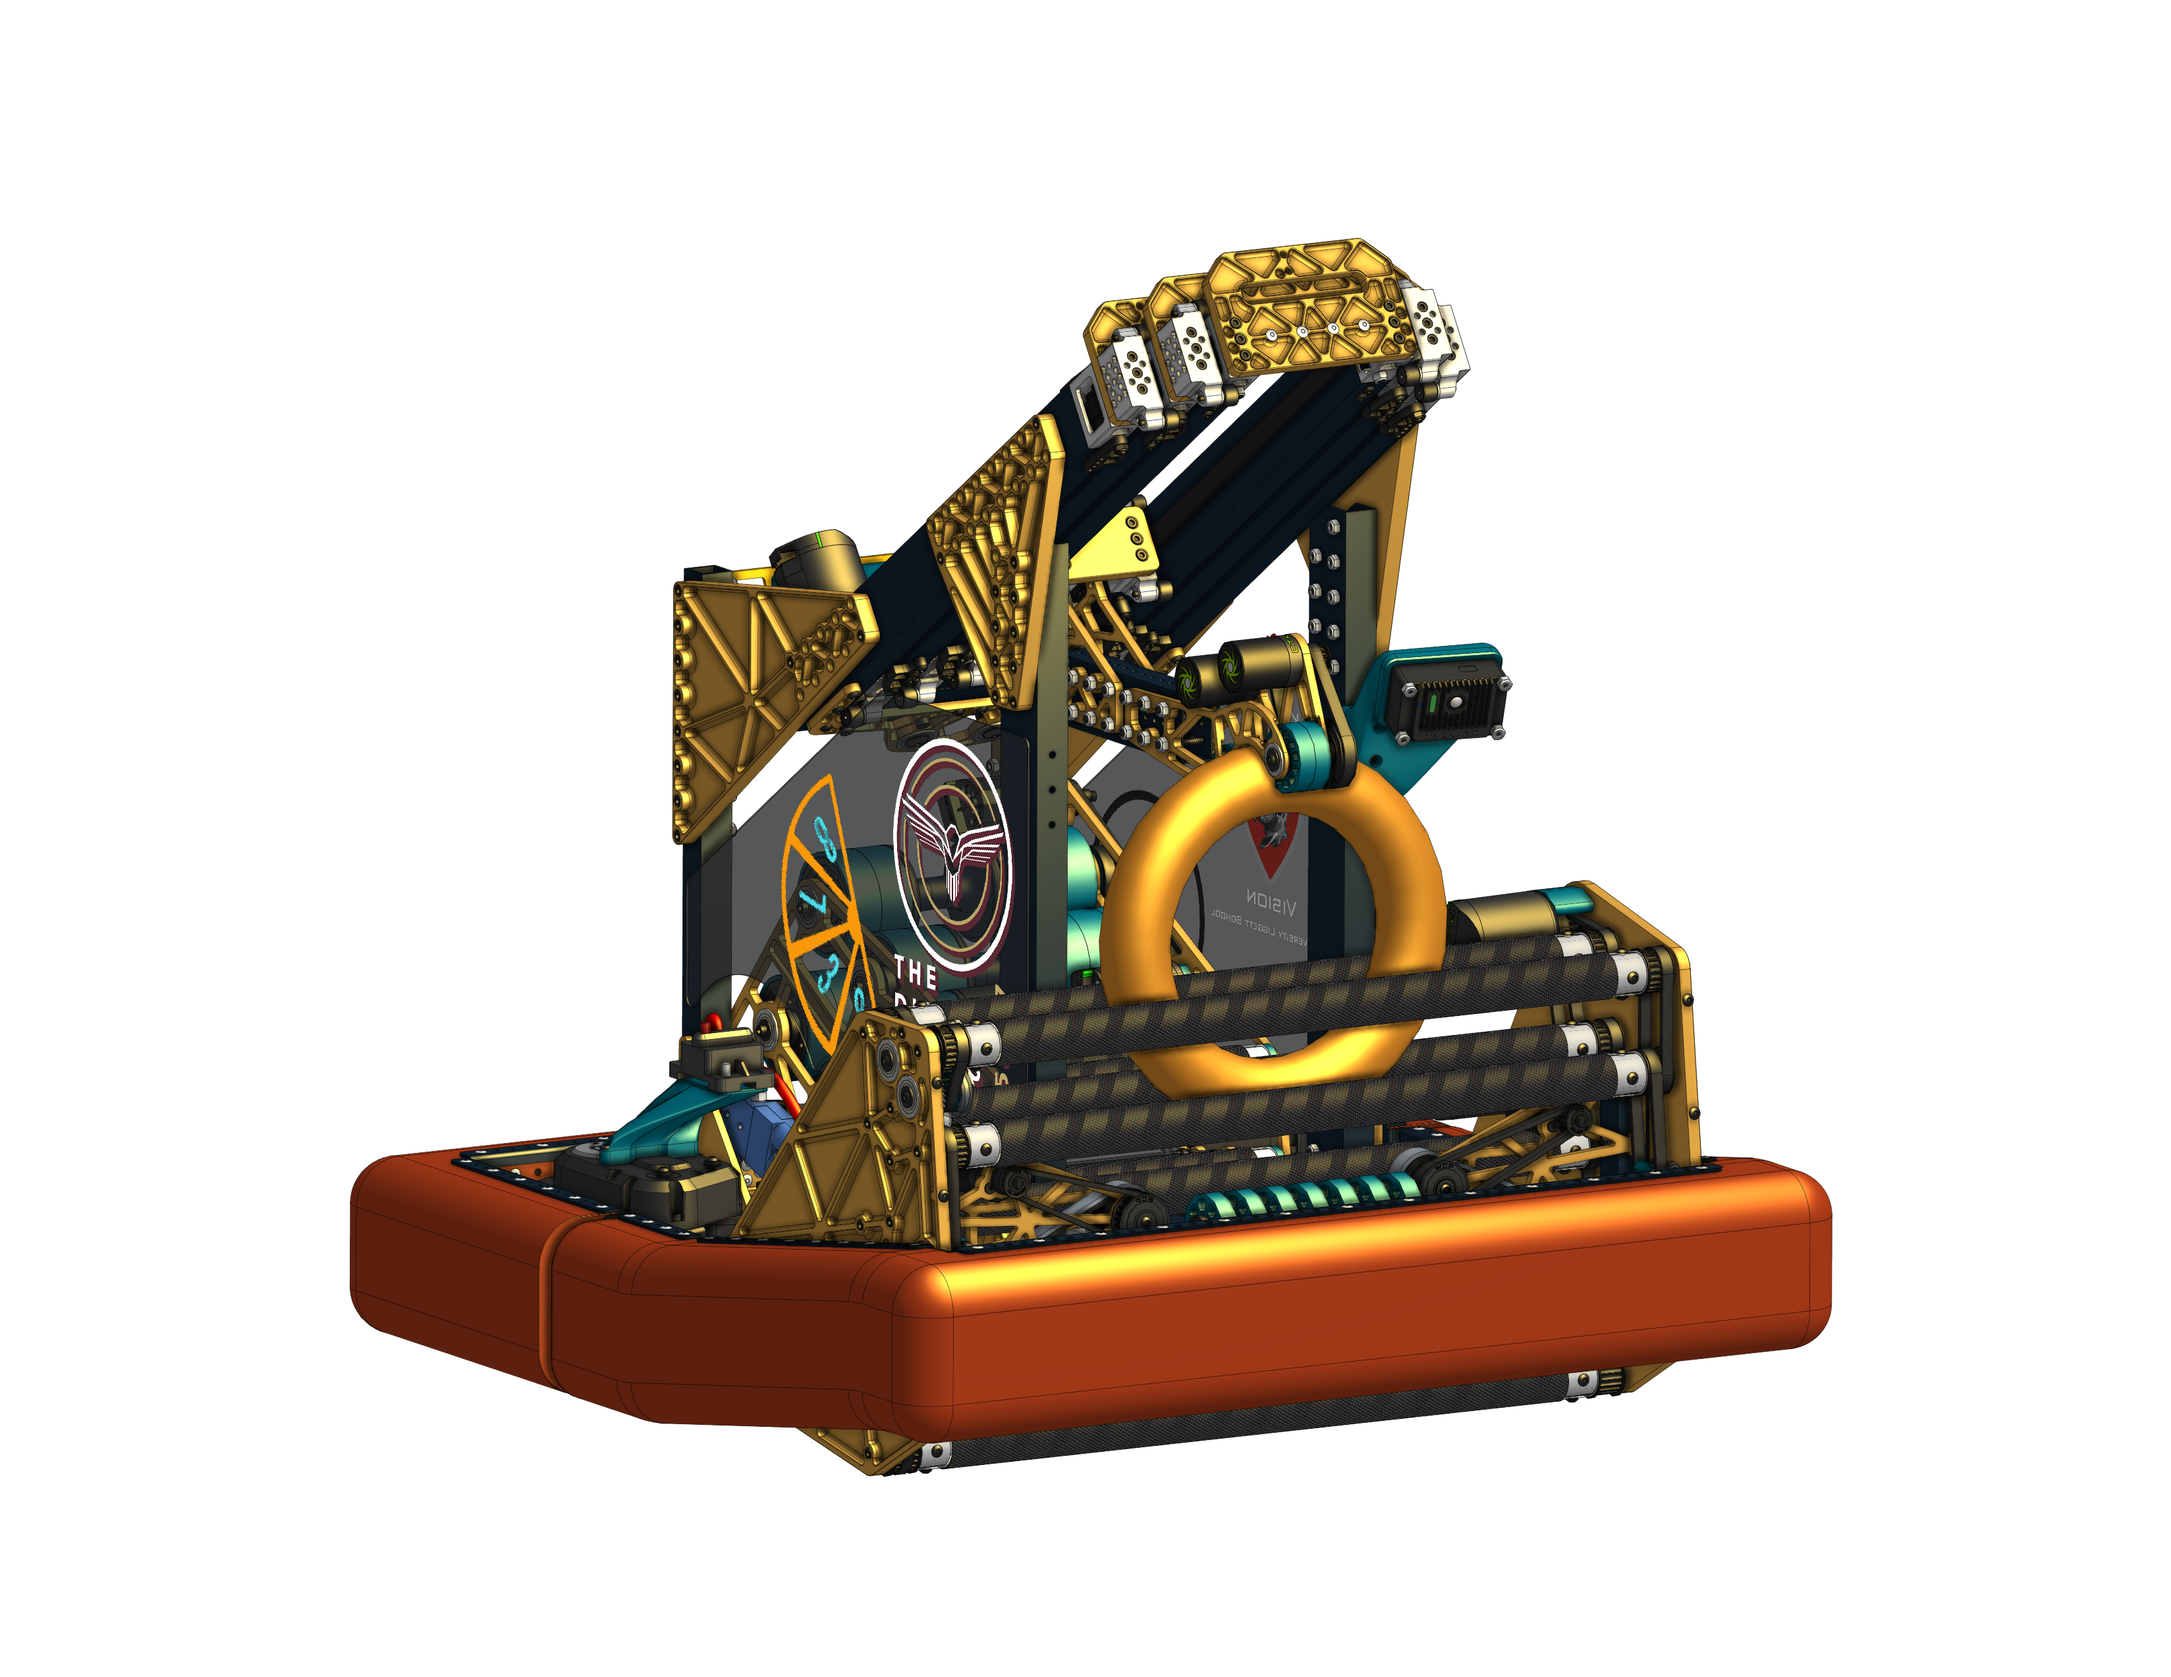
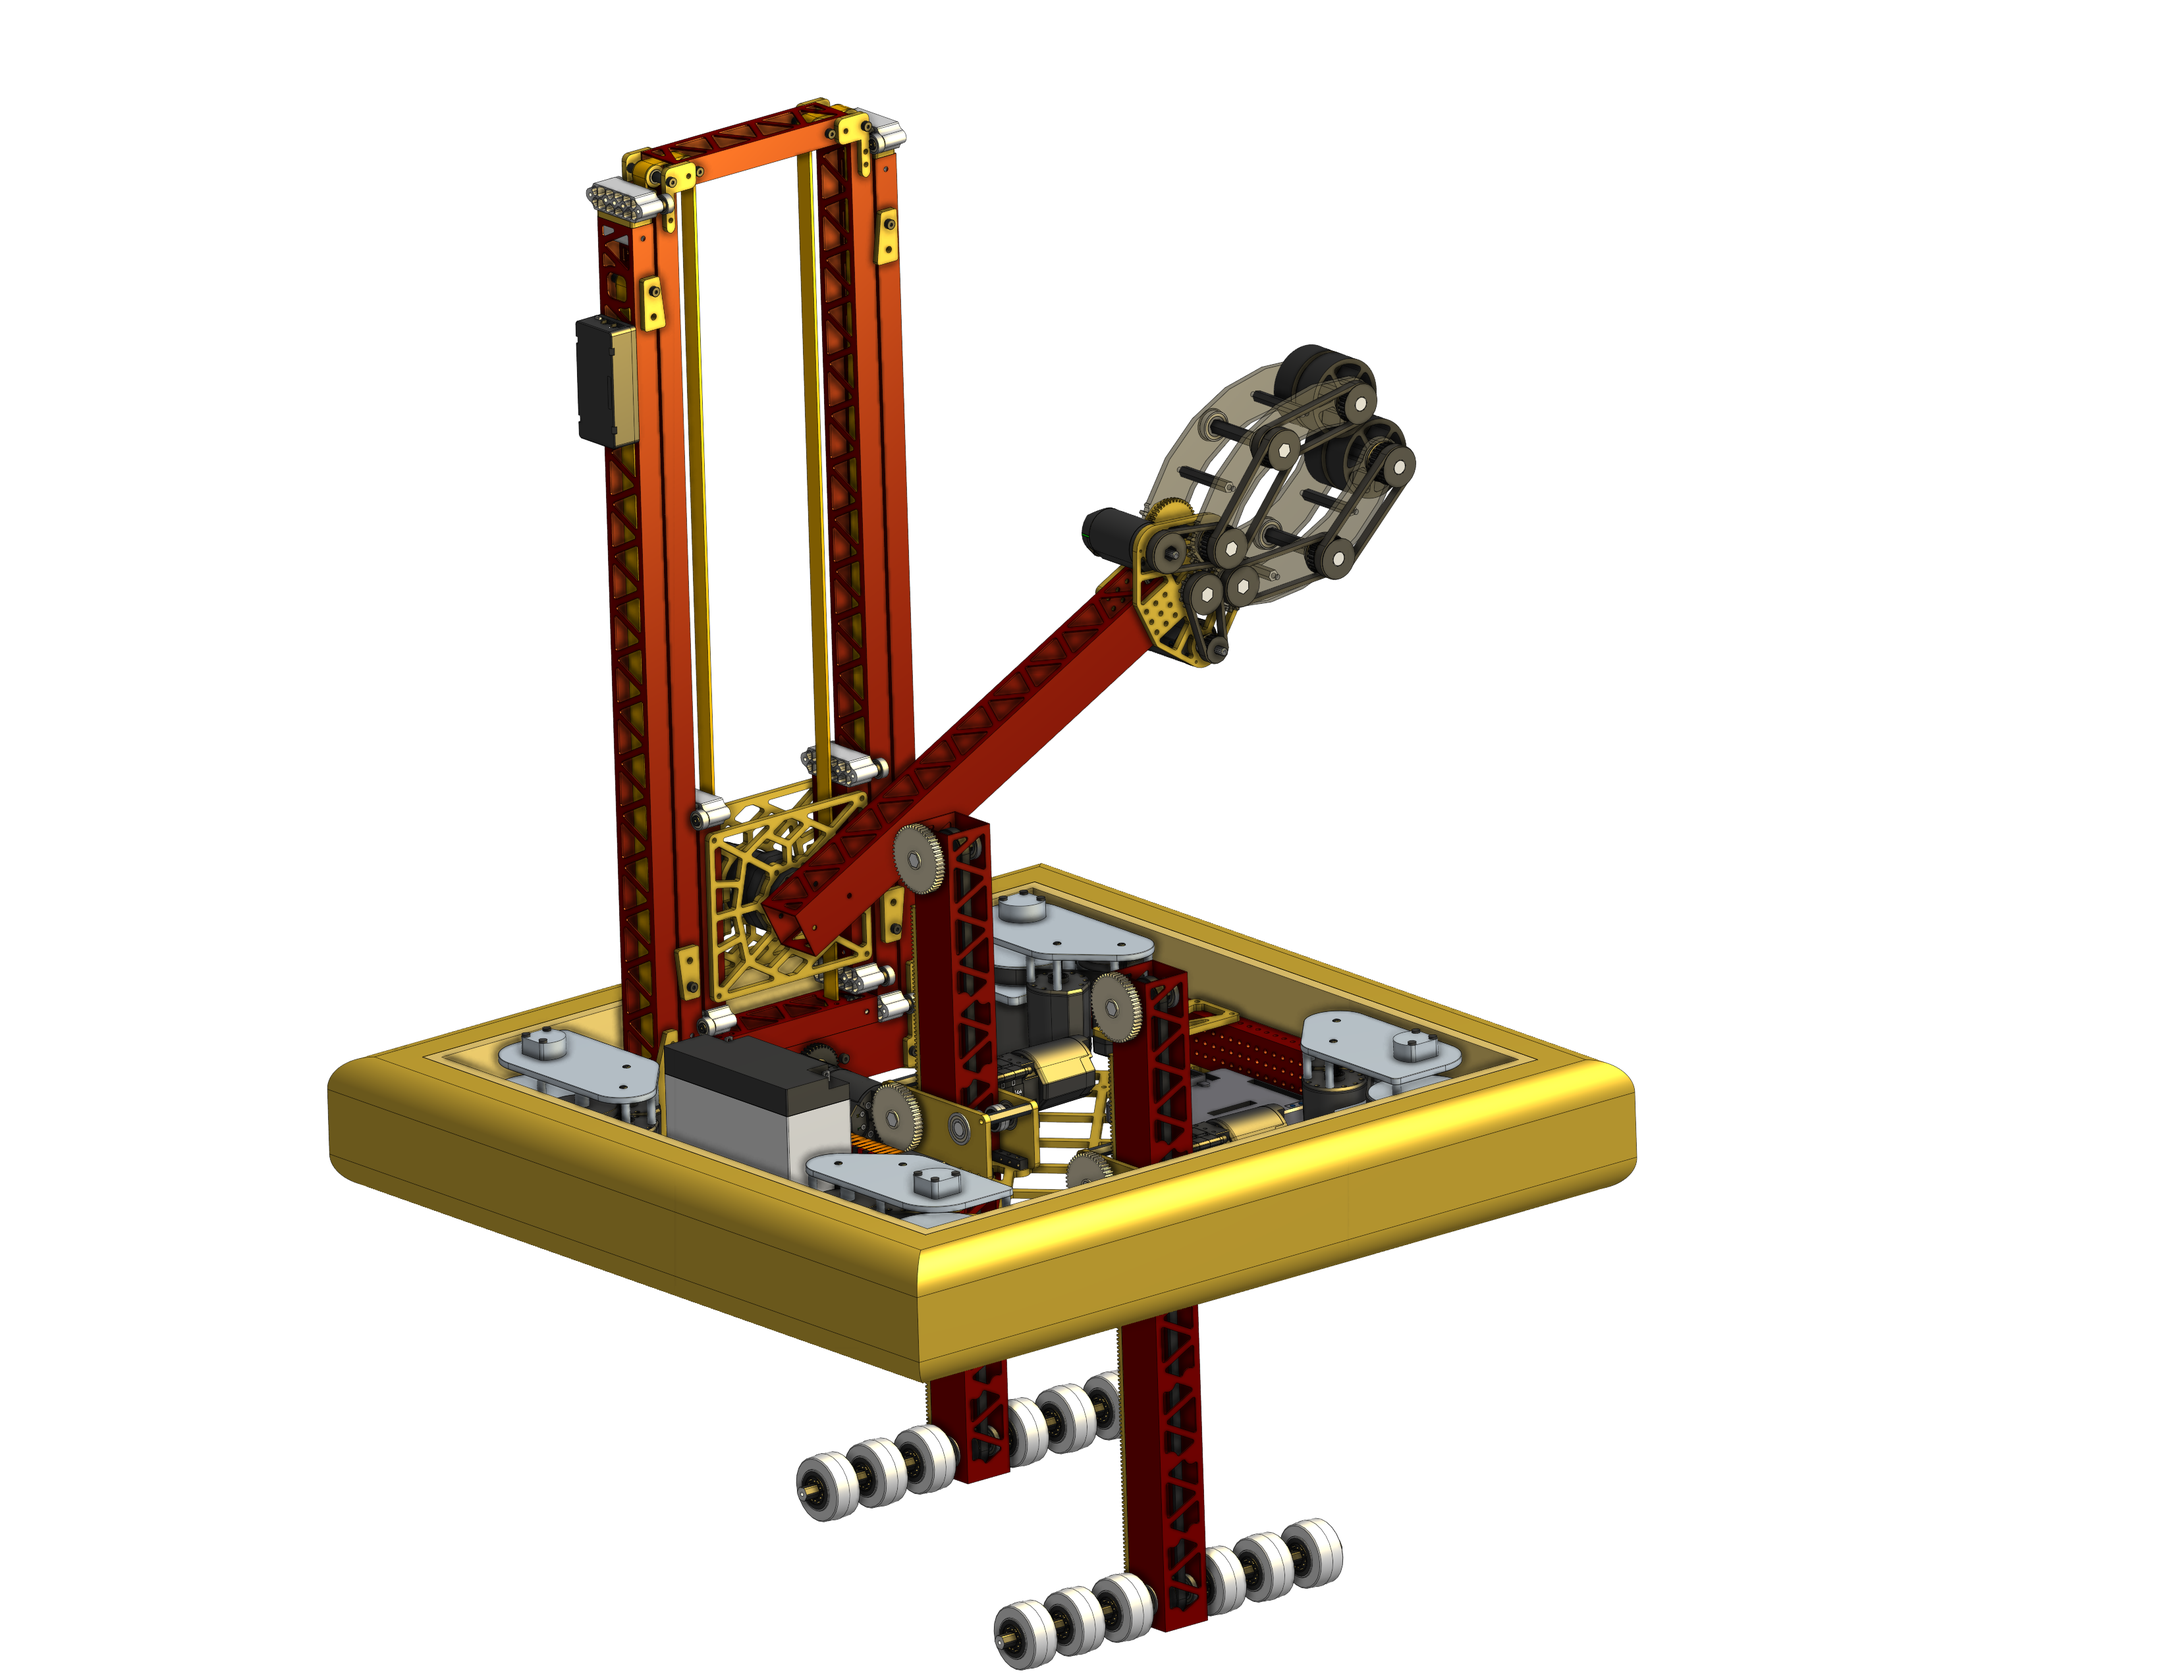
Cache-bust style.css on all pages; swap CC/2019 images as corrected

diff --git a/projects/2017-bot.html b/projects/2017-bot.html
@@ -7,7 +7,7 @@
 <link rel="preconnect" href="https://fonts.googleapis.com">
 <link rel="preconnect" href="https://fonts.gstatic.com" crossorigin>
 <link href="https://fonts.googleapis.com/css2?family=Atkinson+Hyperlegible:wght@400;700&display=swap" rel="stylesheet">
-<link rel="stylesheet" href="../style.css">
+<link rel="stylesheet" href="../style.css?v=2">
 </head>
 <body>
 <div class="site-frame detail-frame">

diff --git a/projects/2019-bot.html b/projects/2019-bot.html
@@ -7,7 +7,7 @@
 <link rel="preconnect" href="https://fonts.googleapis.com">
 <link rel="preconnect" href="https://fonts.gstatic.com" crossorigin>
 <link href="https://fonts.googleapis.com/css2?family=Atkinson+Hyperlegible:wght@400;700&display=swap" rel="stylesheet">
-<link rel="stylesheet" href="../style.css">
+<link rel="stylesheet" href="../style.css?v=2">
 </head>
 <body>
 <div class="site-frame detail-frame">

diff --git a/projects/2025-frc-field.html b/projects/2025-frc-field.html
@@ -7,7 +7,7 @@
 <link rel="preconnect" href="https://fonts.googleapis.com">
 <link rel="preconnect" href="https://fonts.gstatic.com" crossorigin>
 <link href="https://fonts.googleapis.com/css2?family=Atkinson+Hyperlegible:wght@400;700&display=swap" rel="stylesheet">
-<link rel="stylesheet" href="../style.css">
+<link rel="stylesheet" href="../style.css?v=2">
 </head>
 <body>
 <div class="site-frame detail-frame">

diff --git a/projects/3d-printed-clock.html b/projects/3d-printed-clock.html
@@ -7,7 +7,7 @@
 <link rel="preconnect" href="https://fonts.googleapis.com">
 <link rel="preconnect" href="https://fonts.gstatic.com" crossorigin>
 <link href="https://fonts.googleapis.com/css2?family=Atkinson+Hyperlegible:wght@400;700&display=swap" rel="stylesheet">
-<link rel="stylesheet" href="../style.css">
+<link rel="stylesheet" href="../style.css?v=2">
 </head>
 <body>
 <div class="site-frame detail-frame">

diff --git a/projects/5667-2025-bot.html b/projects/5667-2025-bot.html
@@ -7,7 +7,7 @@
 <link rel="preconnect" href="https://fonts.googleapis.com">
 <link rel="preconnect" href="https://fonts.gstatic.com" crossorigin>
 <link href="https://fonts.googleapis.com/css2?family=Atkinson+Hyperlegible:wght@400;700&display=swap" rel="stylesheet">
-<link rel="stylesheet" href="../style.css">
+<link rel="stylesheet" href="../style.css?v=2">
 </head>
 <body>
 <div class="site-frame detail-frame">

diff --git a/projects/5667-2026-bot.html b/projects/5667-2026-bot.html
@@ -7,7 +7,7 @@
 <link rel="preconnect" href="https://fonts.googleapis.com">
 <link rel="preconnect" href="https://fonts.gstatic.com" crossorigin>
 <link href="https://fonts.googleapis.com/css2?family=Atkinson+Hyperlegible:wght@400;700&display=swap" rel="stylesheet">
-<link rel="stylesheet" href="../style.css">
+<link rel="stylesheet" href="../style.css?v=2">
 </head>
 <body>
 <div class="site-frame detail-frame">

diff --git a/projects/beltivator-v1.html b/projects/beltivator-v1.html
@@ -7,7 +7,7 @@
 <link rel="preconnect" href="https://fonts.googleapis.com">
 <link rel="preconnect" href="https://fonts.gstatic.com" crossorigin>
 <link href="https://fonts.googleapis.com/css2?family=Atkinson+Hyperlegible:wght@400;700&display=swap" rel="stylesheet">
-<link rel="stylesheet" href="../style.css">
+<link rel="stylesheet" href="../style.css?v=2">
 </head>
 <body>
 <div class="site-frame detail-frame">

diff --git a/projects/beltivator-v2.html b/projects/beltivator-v2.html
@@ -7,7 +7,7 @@
 <link rel="preconnect" href="https://fonts.googleapis.com">
 <link rel="preconnect" href="https://fonts.gstatic.com" crossorigin>
 <link href="https://fonts.googleapis.com/css2?family=Atkinson+Hyperlegible:wght@400;700&display=swap" rel="stylesheet">
-<link rel="stylesheet" href="../style.css">
+<link rel="stylesheet" href="../style.css?v=2">
 </head>
 <body>
 <div class="site-frame detail-frame">

diff --git a/projects/beltivator-v3.html b/projects/beltivator-v3.html
@@ -7,7 +7,7 @@
 <link rel="preconnect" href="https://fonts.googleapis.com">
 <link rel="preconnect" href="https://fonts.gstatic.com" crossorigin>
 <link href="https://fonts.googleapis.com/css2?family=Atkinson+Hyperlegible:wght@400;700&display=swap" rel="stylesheet">
-<link rel="stylesheet" href="../style.css">
+<link rel="stylesheet" href="../style.css?v=2">
 </head>
 <body>
 <div class="site-frame detail-frame">

diff --git a/projects/block-electronics.html b/projects/block-electronics.html
@@ -7,7 +7,7 @@
 <link rel="preconnect" href="https://fonts.googleapis.com">
 <link rel="preconnect" href="https://fonts.gstatic.com" crossorigin>
 <link href="https://fonts.googleapis.com/css2?family=Atkinson+Hyperlegible:wght@400;700&display=swap" rel="stylesheet">
-<link rel="stylesheet" href="../style.css">
+<link rel="stylesheet" href="../style.css?v=2">
 </head>
 <body>
 <div class="site-frame detail-frame">

diff --git a/projects/cadathon-bot-crystal-caverns.html b/projects/cadathon-bot-crystal-caverns.html
@@ -7,7 +7,7 @@
 <link rel="preconnect" href="https://fonts.googleapis.com">
 <link rel="preconnect" href="https://fonts.gstatic.com" crossorigin>
 <link href="https://fonts.googleapis.com/css2?family=Atkinson+Hyperlegible:wght@400;700&display=swap" rel="stylesheet">
-<link rel="stylesheet" href="../style.css">
+<link rel="stylesheet" href="../style.css?v=2">
 </head>
 <body>
 <div class="site-frame detail-frame">

diff --git a/projects/configurable-circular-threaded-box.html b/projects/configurable-circular-threaded-box.html
@@ -7,7 +7,7 @@
 <link rel="preconnect" href="https://fonts.googleapis.com">
 <link rel="preconnect" href="https://fonts.gstatic.com" crossorigin>
 <link href="https://fonts.googleapis.com/css2?family=Atkinson+Hyperlegible:wght@400;700&display=swap" rel="stylesheet">
-<link rel="stylesheet" href="../style.css">
+<link rel="stylesheet" href="../style.css?v=2">
 </head>
 <body>
 <div class="site-frame detail-frame">
